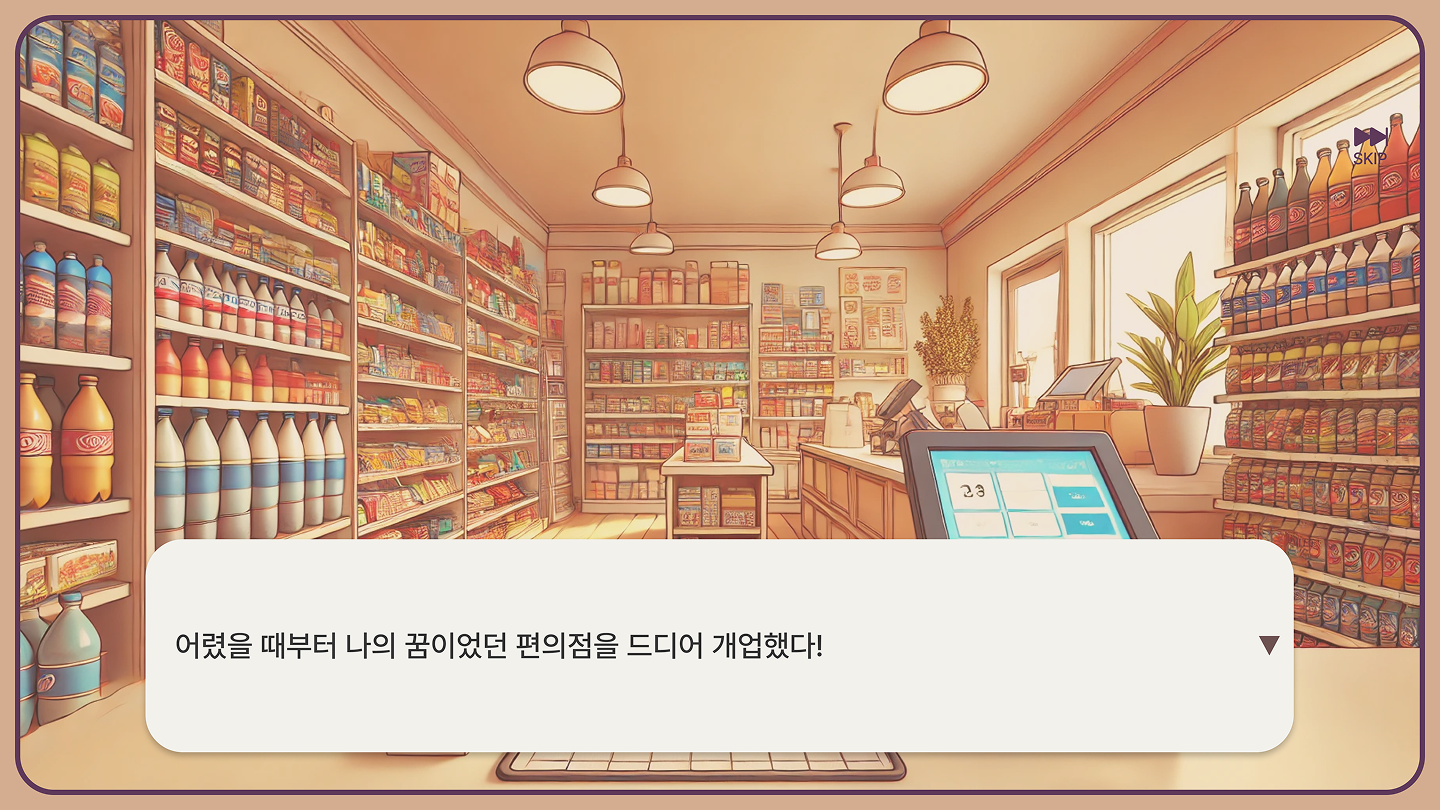
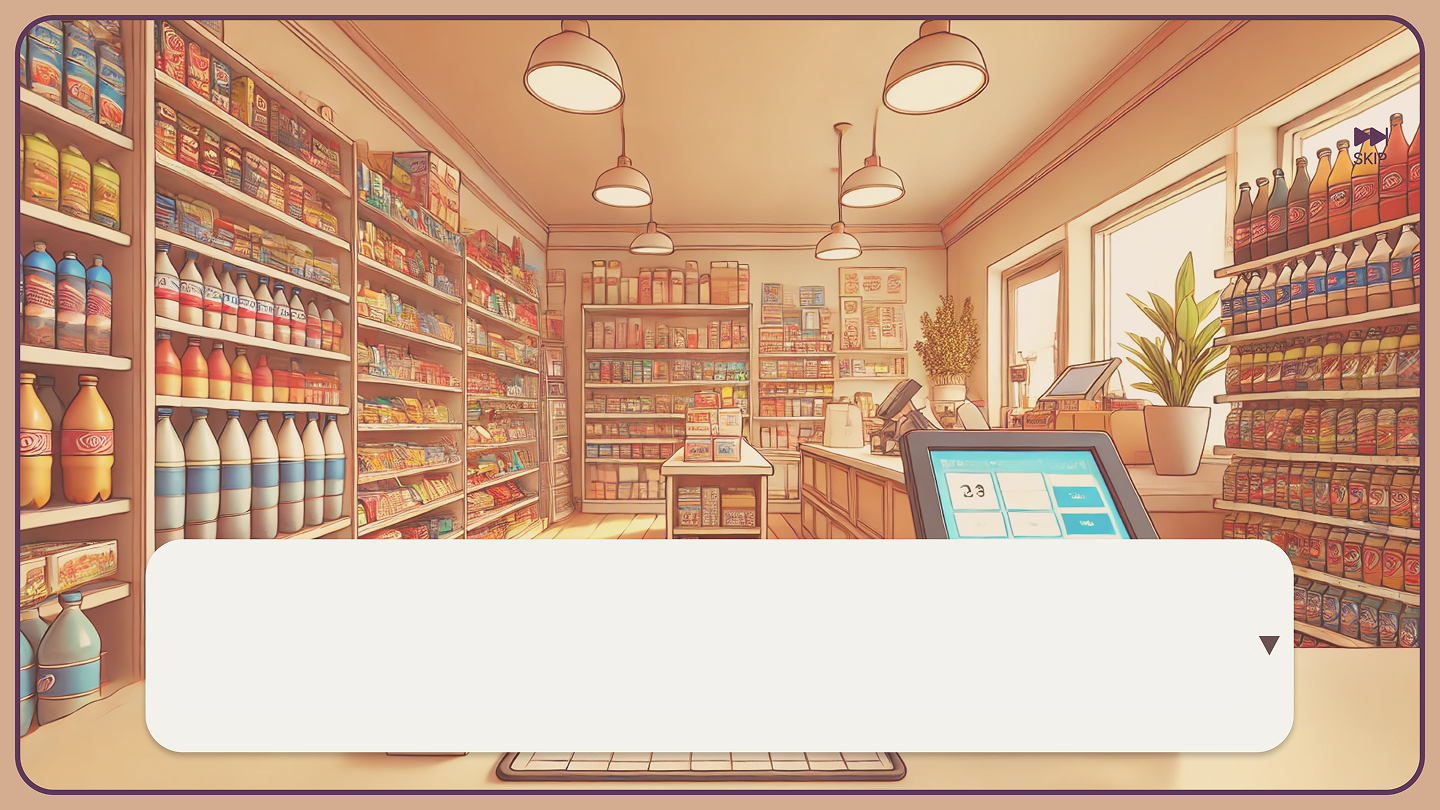
omh_intro글씨애니메이션추가

Changed region(s): [[0.125, 0.7716, 0.5625, 0.8333]]

diff --git a/src/components/mainmenu/intro/introstart/IntroStart3.vue b/src/components/mainmenu/intro/introstart/IntroStart3.vue
@@ -5,7 +5,9 @@
       SKIP >>|
     </div>
     
-    
+    <div id="bankman">
+      <img src="@/assets/tutorial/bankman.png">
+    </div>
     <div class="dialog-box">
       <div class="dialog-text">{{ inputText }}</div>
       <div class="dialog-arrow">▼</div>
@@ -23,11 +25,14 @@ export default {
     }
   },methods:{
     movePage(){
-      this.$router.push('/intro2')
+      this.$router.push('/intro4')
     }
   }
   ,mounted(){
-      let innerText = '어렸을 때부터 나의 꿈이었던 편의점을 드디어 개업했다!';
+    
+      
+
+      let innerText = `빌리신 돈은 1,000,000원이고 대출 상환 기한은 30일이며 만기일시 상환입니다.`;
       
         for(let i =0;i<innerText.length;i++){
           setTimeout(()=>{
@@ -75,6 +80,12 @@ export default {
   background-size:cover;
 
 }
+#bankman{
+  position:relative;
+        
+        top:200px;
+        
+}
 
 .skip-button {
   position: absolute;
@@ -90,7 +101,7 @@ export default {
 
 .dialog-box {
   
-  margin-top: 450px;
+  margin-top: 200px;
   width: 70%;
   background-color: #F2F1EC;
   border-radius: 24px;
@@ -98,6 +109,7 @@ export default {
   margin-bottom: 20px;
   min-height: 150px;
   display: flex;
+  
   align-items: center;
   justify-content: center;
   box-shadow: 0 4px 8px rgba(0, 0, 0, 0.1);

diff --git a/src/components/mainmenu/intro/introstart/IntroStart2.vue b/src/components/mainmenu/intro/introstart/IntroStart2.vue
@@ -5,7 +5,9 @@
       SKIP >>|
     </div>
     
-    
+    <div id="bankman">
+      <img src="@/assets/tutorial/bankman.png">
+    </div>
     <div class="dialog-box">
       <div class="dialog-text">{{ inputText }}</div>
       <div class="dialog-arrow">▼</div>
@@ -23,11 +25,14 @@ export default {
     }
   },methods:{
     movePage(){
-      this.$router.push('/intro2')
+      this.$router.push('/intro3')
     }
   }
   ,mounted(){
-      let innerText = '어렸을 때부터 나의 꿈이었던 편의점을 드디어 개업했다!';
+    
+      
+
+      let innerText = `안녕하세요.은행에서 왔습니다.편의점 개업하신걸 축하드립니다.`;
       
         for(let i =0;i<innerText.length;i++){
           setTimeout(()=>{
@@ -75,6 +80,12 @@ export default {
   background-size:cover;
 
 }
+#bankman{
+  position:relative;
+        
+        top:200px;
+        
+}
 
 .skip-button {
   position: absolute;
@@ -90,7 +101,7 @@ export default {
 
 .dialog-box {
   
-  margin-top: 450px;
+  margin-top: 200px;
   width: 70%;
   background-color: #F2F1EC;
   border-radius: 24px;
@@ -98,6 +109,7 @@ export default {
   margin-bottom: 20px;
   min-height: 150px;
   display: flex;
+  
   align-items: center;
   justify-content: center;
   box-shadow: 0 4px 8px rgba(0, 0, 0, 0.1);

diff --git a/src/router/index.js b/src/router/index.js
@@ -20,6 +20,10 @@ import QuizMain from '@/components/quiz/quizMain.vue'
 import Counter from '@/components/maingame/counter.vue'
 import Customer from '@/components/maingame/customer.vue'
 import IntroStart1 from '@/components/mainmenu/intro/introstart/IntroStart1.vue'
+import IntroStart2 from '@/components/mainmenu/intro/introstart/IntroStart2.vue'
+import IntroStart3 from '@/components/mainmenu/intro/introstart/IntroStart3.vue'
+
+import IntroStart4 from '@/components/mainmenu/intro/introstart/IntroStart4.vue'
 
 
 
@@ -117,6 +121,21 @@ const router = createRouter({
       path:'/introStart'
       ,name:'introStart'
       ,component:IntroStart1
+    }
+    ,{
+      path:'/intro2'
+      ,name:'introStart2'
+      ,component:IntroStart2
+    }
+    ,{
+      path:'/intro3'
+      ,name:'introStart3'
+      ,component:IntroStart3
+    }
+    ,{
+      path:'/intro4'
+      ,name:'introStart4'
+      ,component:IntroStart4
     }
   ],
 })

diff --git a/src/components/mainmenu/intro/introstart/IntroStart4.vue b/src/components/mainmenu/intro/introstart/IntroStart4.vue
@@ -1,7 +1,7 @@
 <template>
   <div class="main-container">
     
-    <div class="skip-button" @click="movePage">
+    <div class="skip-button">
       SKIP >>|
     </div>
     
@@ -21,13 +21,12 @@ export default {
     return {
       inputText:''
     }
-  },methods:{
-    movePage(){
-      this.$router.push('/intro2')
-    }
   }
   ,mounted(){
-      let innerText = '어렸을 때부터 나의 꿈이었던 편의점을 드디어 개업했다!';
+    
+      
+
+      let innerText = '갚아야 할 돈이 100만원?! 내가 가진 현금은 50만원인데 어떻게 운영해야하지?';
       
         for(let i =0;i<innerText.length;i++){
           setTimeout(()=>{
